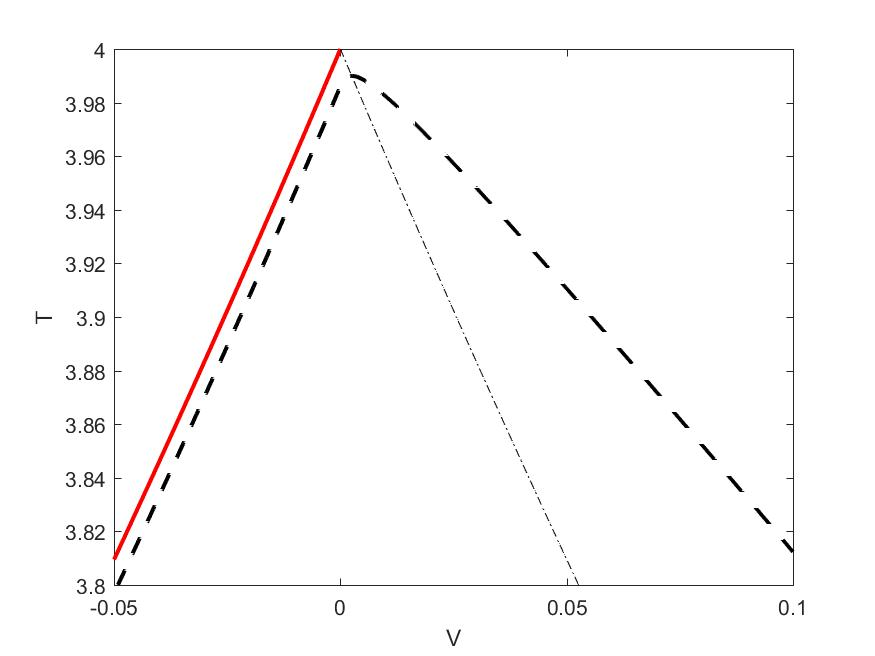
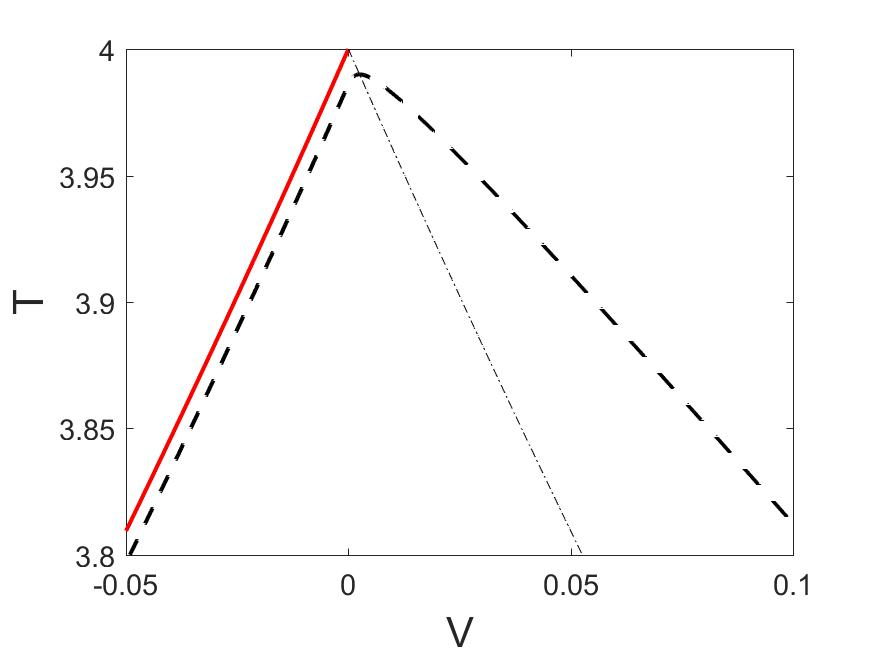
All 2D plots

diff --git a/Complete/TwoD_matlab/Slow/twoD_slow.m b/Complete/TwoD_matlab/Slow/twoD_slow.m
@@ -5,8 +5,8 @@
 %solution for different choices of epsilon.
 
 % Load function folder
-addpath('C:\Users\codyg\Desktop\MSc_Thesis\Cody\trunk\Complete\Functions')
-cd('C:\Users\codyg\Desktop\MSc_Thesis\Cody\trunk\Complete\Graphs\TwoD_Slow')
+addpath('C:\Users\codyg\Desktop\Thesis-Master\trunk\Complete\Functions')
+cd('C:\Users\codyg\Desktop\Thesis-Master\trunk\Complete\Graphs\TwoD_Slow')
 
 
 % Zoom? 0=No, 1=Yes
@@ -64,7 +64,7 @@ Vsmooth = r(imag(r)==0);
 smootheta2 = Vcurve(Vsmooth,eta1,eta3);
 
 % Determine the tipping points for each case
-criteria = Vsmooth;
+criteria = .5;
 A=[eta3 1-eta3;eta1 1];
 [C,eigs] = eig(A);
 eig1 = eigs(1,1);
@@ -93,9 +93,9 @@ set(h3,'color','r','linewidth',2)
 % Remove vectorized warning, not important for speed
 [~,war]=lastwarn();
 warning('off',war);
-
-xlabel('\eta_2')
-ylabel('V')
+set(gca,'fontsize',14)
+xlabel('\eta_2','fontsize',20)
+ylabel('V','fontsize',20)
 title('')
 hold on
 plot(eta2num,Vnum,'k--','linewidth',2)
@@ -108,8 +108,8 @@ print('-f1','slow_bif_diagram','-djpeg');
 
 %Zoom
 if zoom == 1
-    plot(tippred1vec,yvec,'b')
-    plot(tipactualvec,yvec,'k--')
+    plot(tippred1vec,yvec,'b--','linewidth',2)
+    plot(tipactualvec,yvec,'k','linewidth',2)
     xlim([tipactual-eps nsbif+.1])
     ylim([-.05 .2])
     print('-f1','slow_bif_diagram_zoom','-djpeg');
@@ -137,8 +137,9 @@ hold on
 plot(Vmid,Tmid, 'k-.')
 plot(Vup,Tup,'r','linewidth',2)
 plot(Vnum,Tnum,'k--','linewidth',2)
-xlabel('V')
-ylabel('T')
+set(gca,'fontsize',14)
+xlabel('V','fontsize',20)
+ylabel('T','fontsize',20)
 
 
 print('-f2','slow_bif_Tplot','-djpeg');
@@ -201,11 +202,12 @@ close(figure(3))
 figure(3)
 plot(epsvec,tipvec1,'k','linewidth',2)
 hold on
-plot(epsvec,tipvec2,'g', 'linewidth', 2)
+plot(epsvec,tipvec2,'b', 'linewidth', 2)
 plot(epsvec,tipactualvec,'r*')
 hold off
-xlabel('\epsilon')
-ylabel('\eta_2-\eta_{2ns}')
+set(gca,'fontsize',14)
+xlabel('\epsilon','fontsize',20)
+ylabel('\eta_2-\eta_{2ns}','fontsize',20)
 
 print('-f3','slow_epscomp','-djpeg')
 

diff --git a/Complete/TwoD_matlab/Osc/twoD_osc.m b/Complete/TwoD_matlab/Osc/twoD_osc.m
@@ -82,6 +82,7 @@ yvec = linspace(-1,2,300);
 caseIvec = caseIboundary* ones(1,300);
 bifpredvec = muosc* ones(1,300);
 
+
 % Phase plot time series
 close(figure(3))
 figure(3)
@@ -109,6 +110,10 @@ plot(linspace(nsbif-1,nsbif+1,100),zeros(1,100),'k')
 % Parameter ranges
 plot(bifpredvec, yvec, 'b--','linewidth',2)
 plot(caseIvec, yvec, 'g--','linewidth',2)
+xlim([nsbif 2.3])
+ylim([-.5 .3])
+
+print('-f3','osc_cases','-djpeg')
 
 % Phase plane time series
 plot(eta2vec(1)*ones(1,length(Vbefore)),Vbefore,'color',c{1},'linewidth',2)
